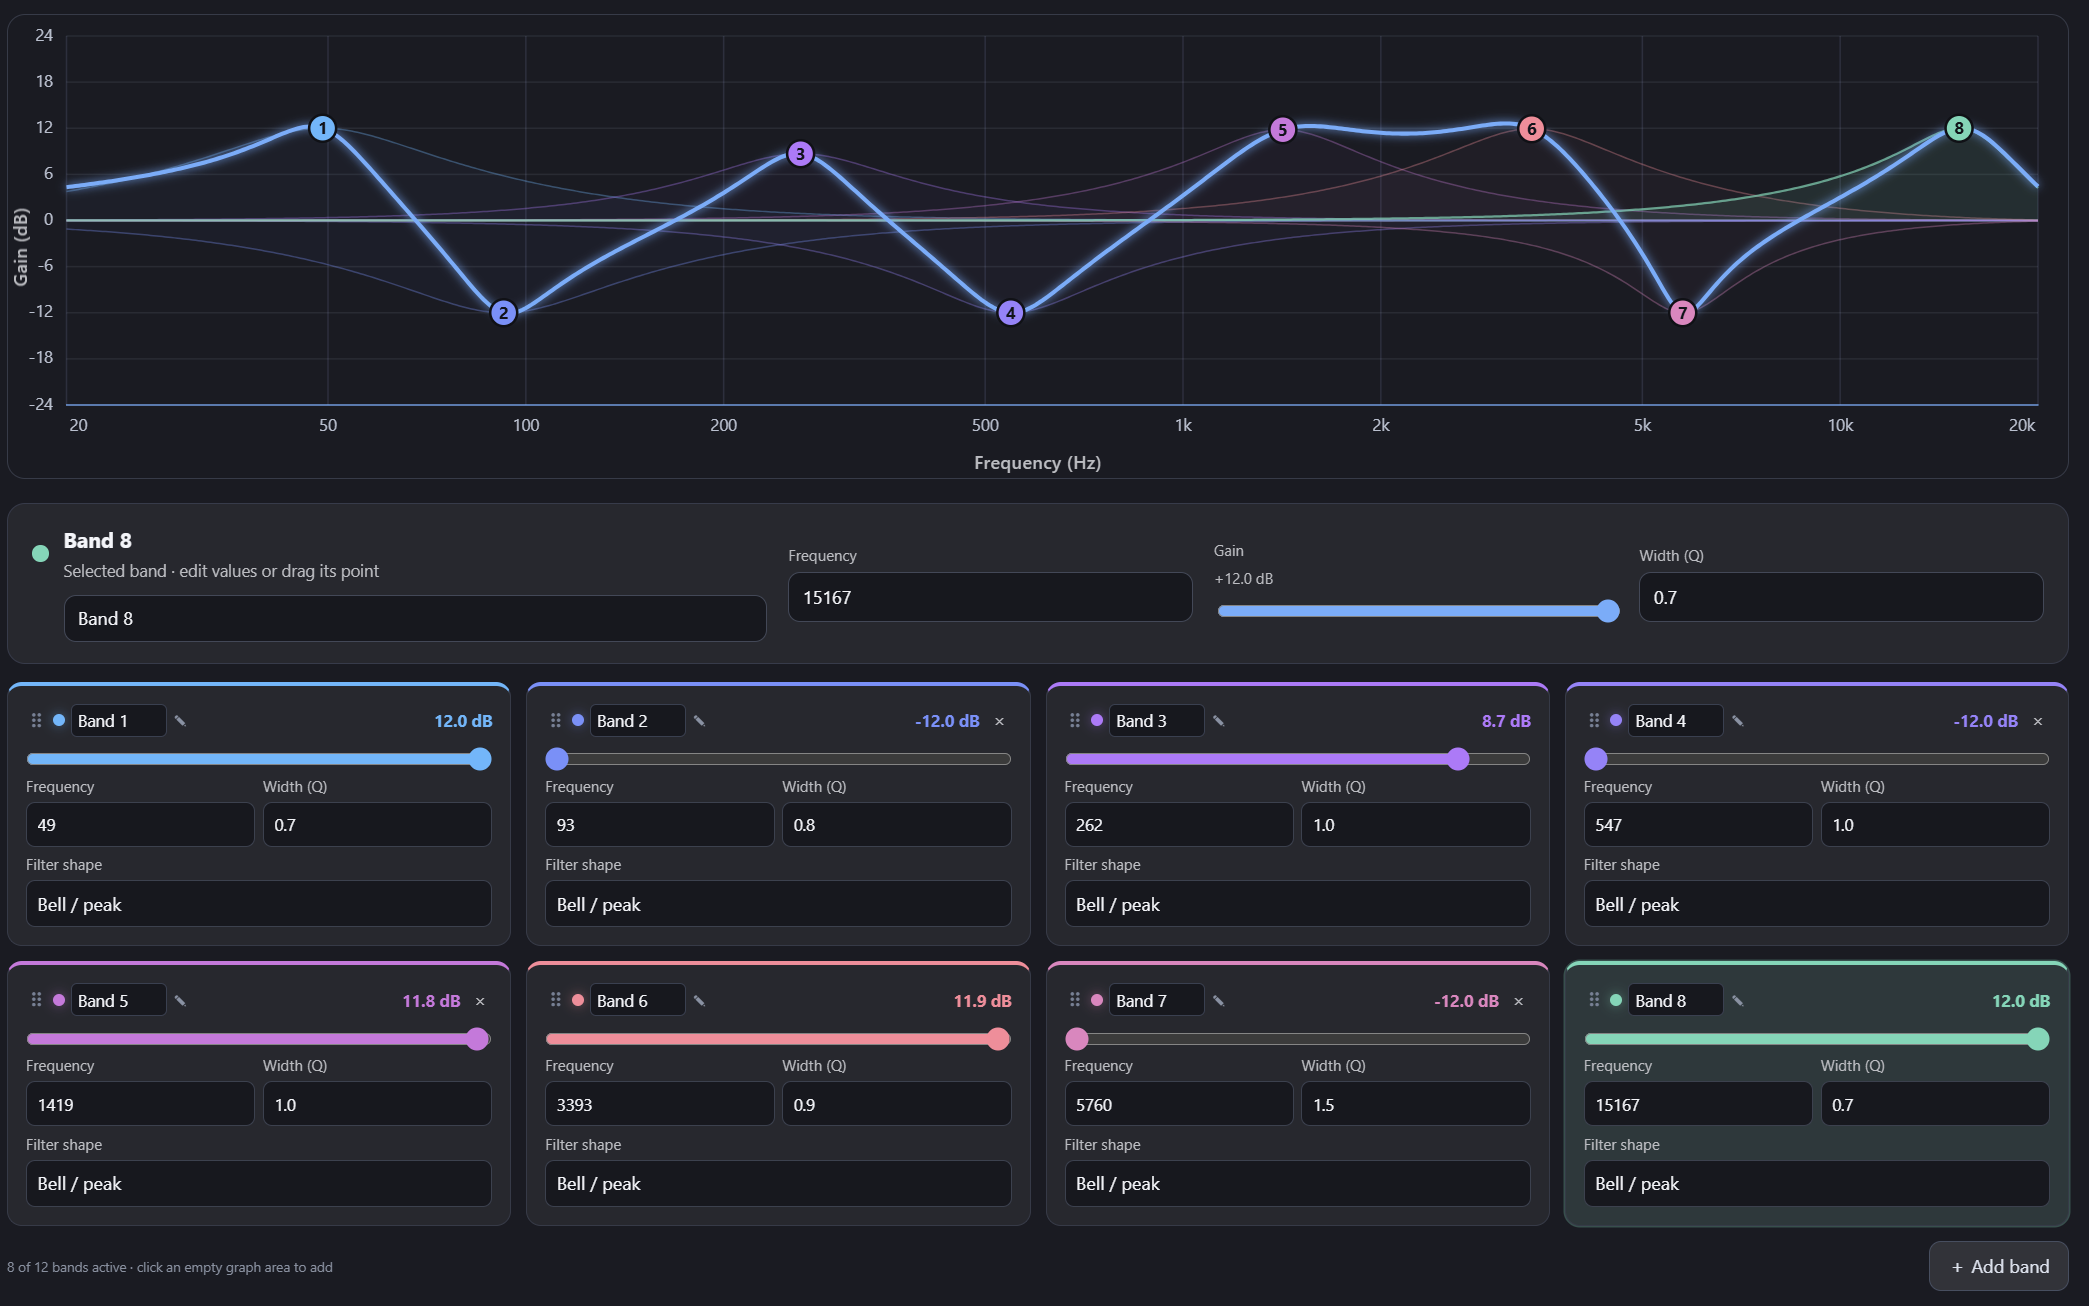
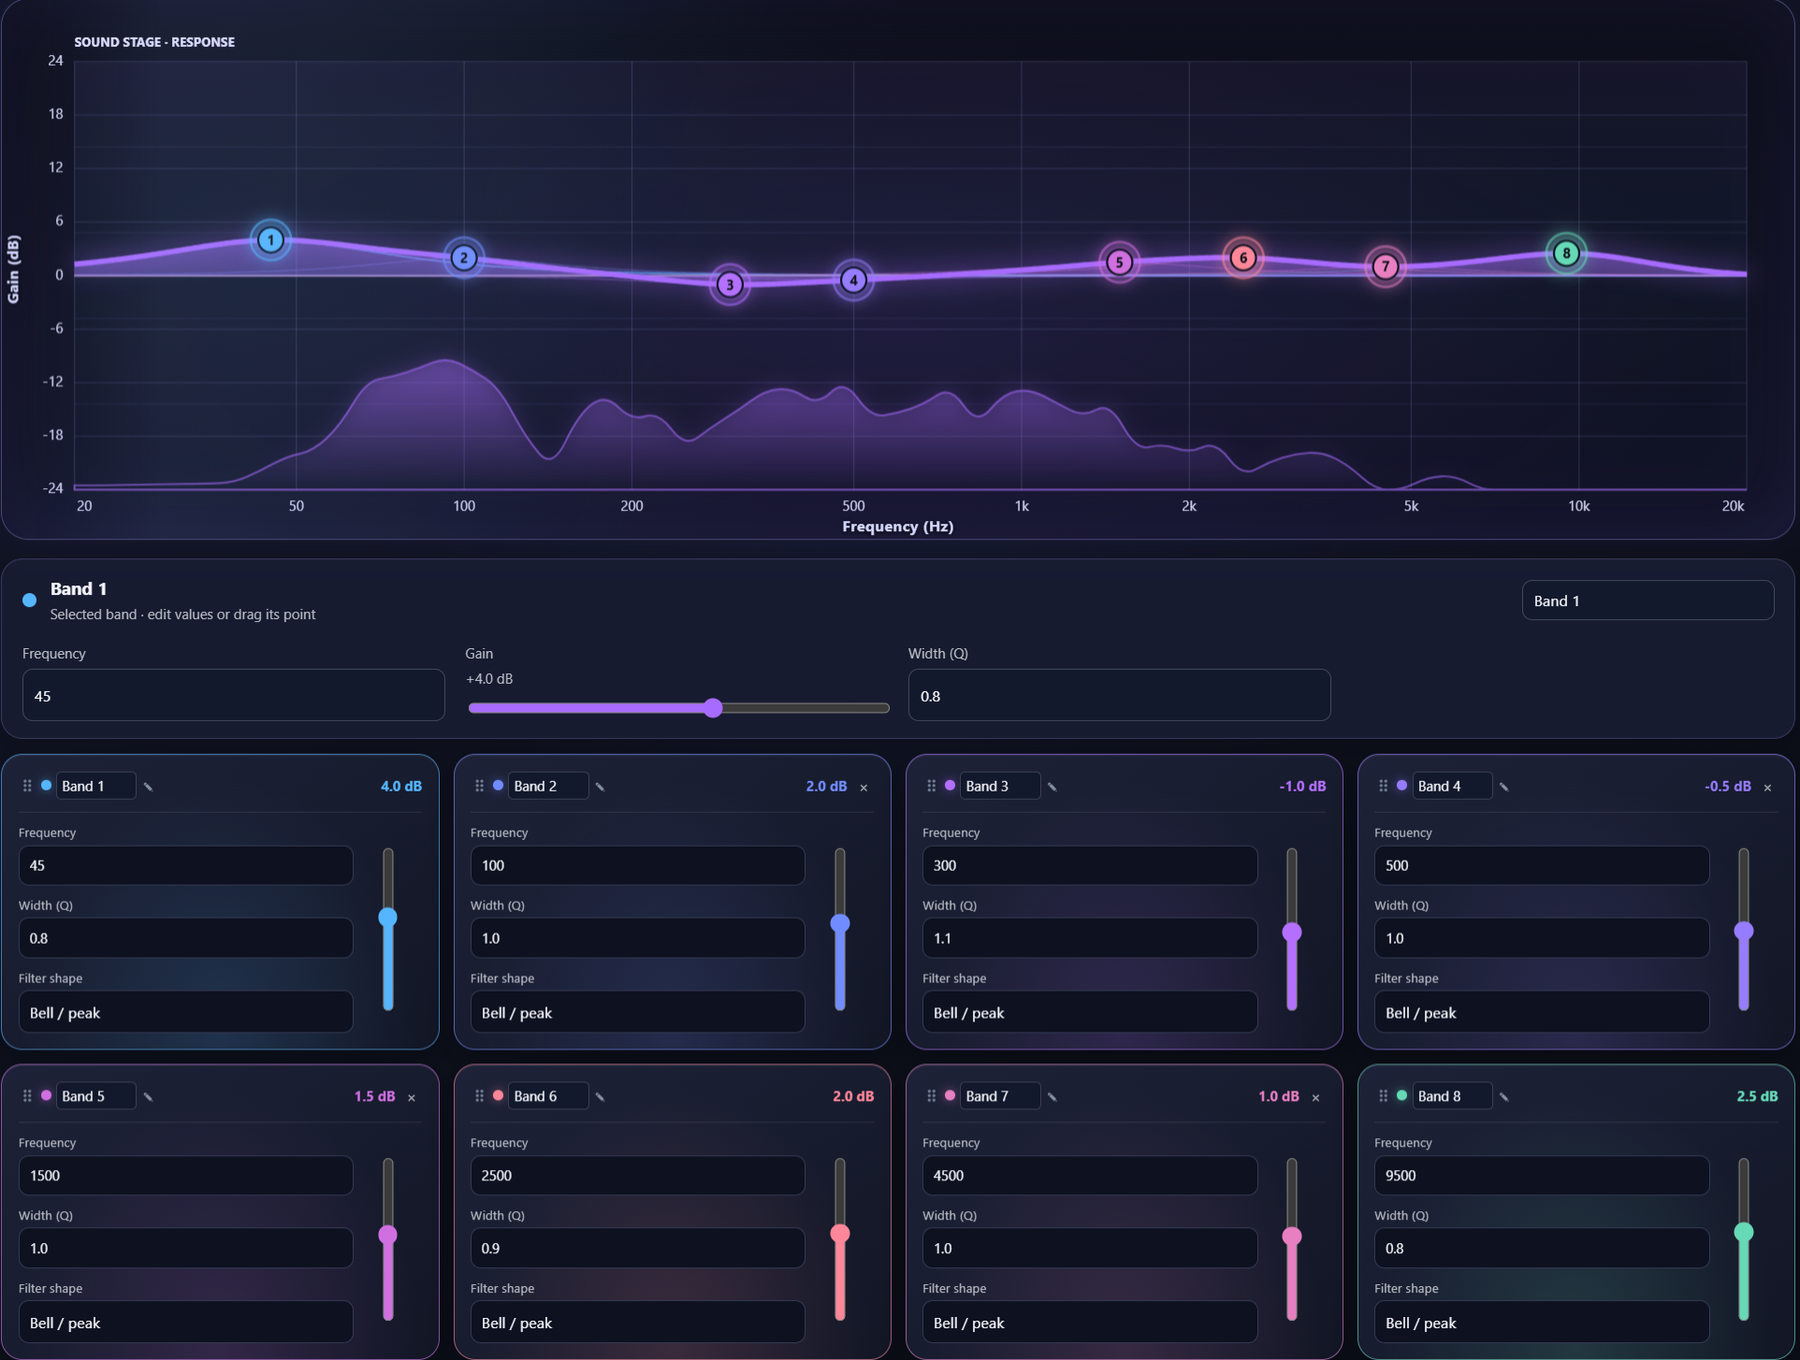
README: new screenshots and live demo GIF
Claude-Session: https://claude.ai/code/session_016N7EcejiuA6maCTFc92pZS

diff --git a/README.md b/README.md
@@ -20,9 +20,11 @@ Windows may show a "Windows protected your PC" warning because the installer is 
 
 ## Screenshots
 
-**Basic mode:** four tone controls (Bass, Warmth, Presence, Treble) with sound controls on the side.
+![EqualTune in action: a live spectrum behind the EQ curve](screenshots/00-live-demo.gif)
 
-![Basic mode with sound controls](screenshots/01-basic-eq.png)
+**Basic mode:** four tone controls (Bass, Warmth, Presence, Treble) with a live spectrum behind the curve.
+
+![Basic mode](screenshots/01-basic-eq.png)
 
 **Advanced mode:** up to 12 parametric bands, each with its own frequency, gain, width (Q) and filter shape.
 
@@ -30,10 +32,8 @@ Windows may show a "Windows protected your PC" warning because the installer is 
 
 | | |
 | --- | --- |
-| ![Band controls](screenshots/03-band-controls.png)<br>Every band can be named, dragged, reordered and given its own filter shape. | ![Live spectrum](screenshots/04-live-spectrum.png)<br>A live spectrum shows your audio behind the EQ curve. |
-| ![Presets](screenshots/05-presets.png)<br>14 built-in presets, plus your own. | ![Skins](screenshots/06-skins.png)<br>16 visual styles to choose from. |
-
-![Appearance options](screenshots/07-appearance.png)
+| ![Band controls](screenshots/03-band-controls.png)<br>Every band can be named, dragged, reordered and given its own filter shape. | ![Presets](screenshots/04-presets.png)<br>14 built-in presets, plus your own. |
+| ![Skins](screenshots/05-skins.png)<br>16 visual styles to choose from. | ![Appearance options](screenshots/06-appearance.png)<br>Background image, fonts, colors and text sizes. |
 
 
 ## What it does
